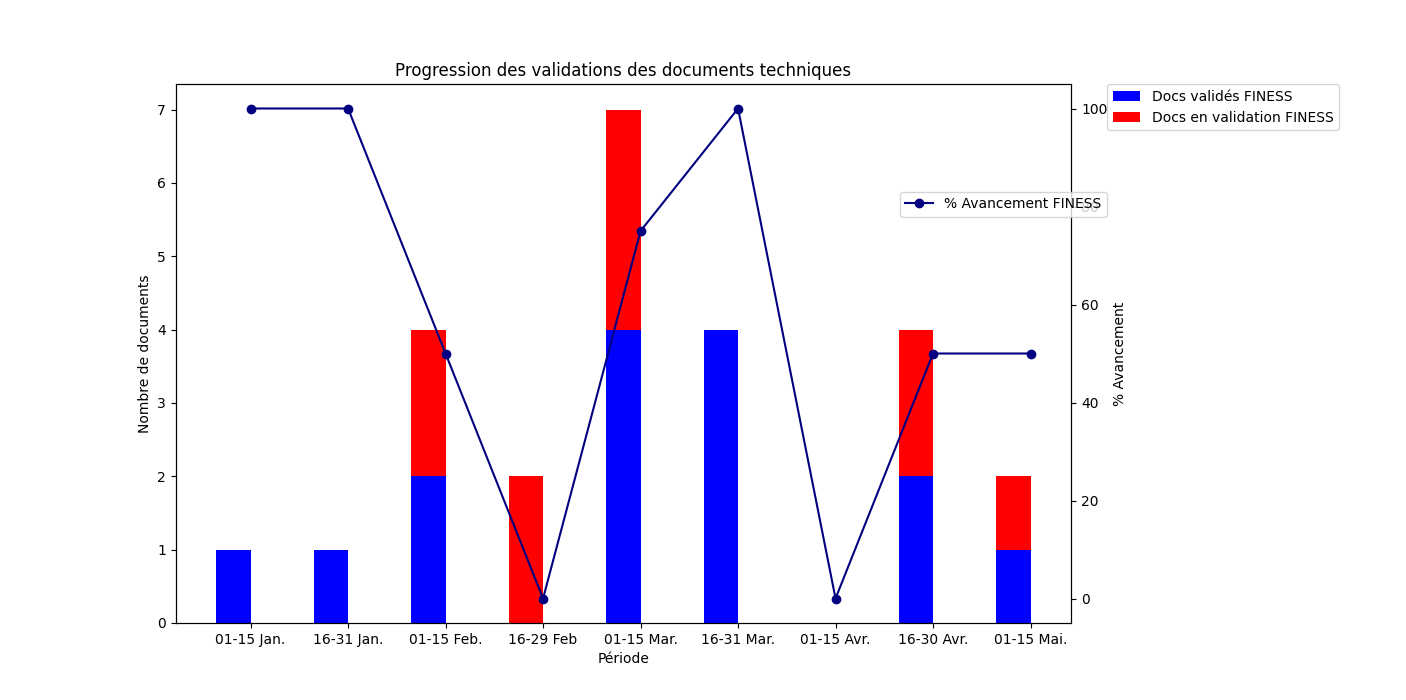
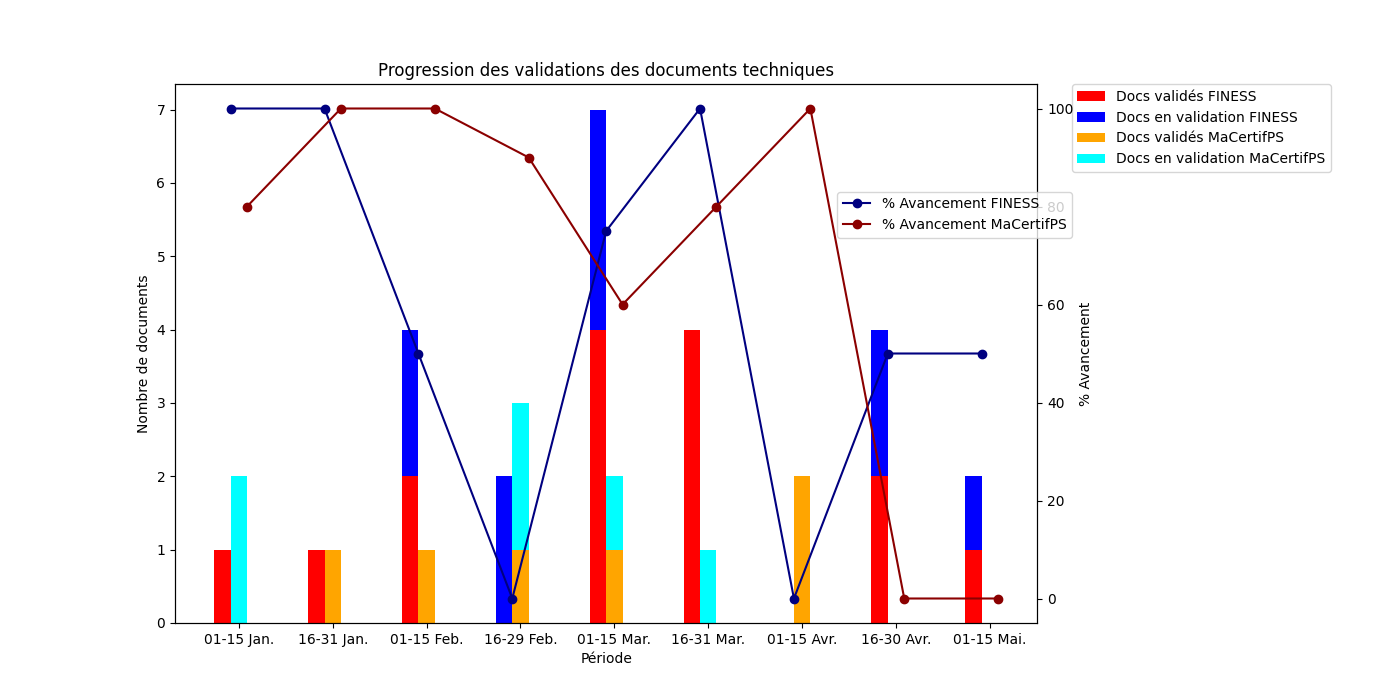
mejoras en los colores

diff --git a/documents-rediges.py b/documents-rediges.py
@@ -9,28 +9,34 @@ data = pd.read_csv('documents-rediges.csv')
 data.sort_values(by=['Periodo_Orden', 'Projet'], inplace=True)
 
 # Configuración de colores para el gráfico
-colors_bar = ['b', 'r', 'g', 'c', 'm', 'y', 'k']  # Colores para las barras de documentos rédigés
-colors_line = ['navy', 'darkred', 'darkgreen', 'darkcyan', 'purple', 'goldenrod', 'black']  # Colores para las líneas del % avancement
+warm_colors = ['red', 'orange', 'yellow', 'darkred', 'coral', 'gold', 'darkorange']  # Colores cálidos para documentos redactados
+cool_colors = ['blue', 'cyan', 'purple', 'darkblue', 'deepskyblue', 'darkviolet', 'steelblue']  # Colores fríos para documentos en redacción
+line_colors = ['navy', 'darkred', 'darkgreen', 'darkcyan', 'purple', 'goldenrod', 'black']  # Colores para las líneas de avance
 
 # Crear el gráfico
 fig, ax1 = plt.subplots(figsize=(14, 7))
 bar_width = 0.35 / len(data['Projet'].unique())
 index = np.arange(len(data['Periodo_Texto'].unique()))
+periods = data['Periodo_Texto'].unique()
 
 # Dibujar barras y líneas para cada proyecto
 for i, projet in enumerate(data['Projet'].unique()):
     subset = data[data['Projet'] == projet]
     
-    # Dibujar las barras de documentos rédigés
-    ax1.bar(index + i * bar_width, subset['Documents rédigés'], bar_width, label=f'Docs rédigés {projet}', color=colors_bar[i % len(colors_bar)])
-    ax1.bar(index + i * bar_width, subset['Documents en rédaction'], bar_width, bottom=subset['Documents rédigés'], label=f'Docs en rédaction {projet}', color=colors_bar[(i + 1) % len(colors_bar)])
+    # Asegurar que todos los periodos estén representados en el subconjunto
+    subset = subset.set_index('Periodo_Texto').reindex(periods).reset_index()
+    subset.fillna(0, inplace=True)
+    
+    # Dibujar las barras de documentos redactados
+    ax1.bar(index + i * bar_width, subset['Documents rédigés'], bar_width, label=f'Docs rédigés {projet}', color=warm_colors[i % len(warm_colors)])
+    ax1.bar(index + i * bar_width, subset['Documents en rédaction'], bar_width, bottom=subset['Documents rédigés'], label=f'Docs en rédaction {projet}', color=cool_colors[i % len(cool_colors)])
 
 # Ajustar las etiquetas y las leyendas de las barras
 ax1.set_xlabel('Période')
 ax1.set_ylabel('Nombre de documents')
 ax1.set_title('Progression des rédactions des documents techniques')
 ax1.set_xticks(index + bar_width * len(data['Projet'].unique()) / 2)
-ax1.set_xticklabels(data['Periodo_Texto'].unique())
+ax1.set_xticklabels(periods)
 ax1.legend(loc='upper left', bbox_to_anchor=(1.04, 1), borderaxespad=0)
 
 # Añadir y configurar el eje para el porcentaje de avance
@@ -40,7 +46,12 @@ ax2.set_ylabel('% Avancement de rédaction')
 # Dibujar las líneas para el porcentaje de avance
 for i, projet in enumerate(data['Projet'].unique()):
     subset = data[data['Projet'] == projet]
-    ax2.plot(index + i * bar_width + bar_width / 2, subset['% Avancement rédaction'], 'o-', color=colors_line[i % len(colors_line)], label=f'% Avancement rédaction {projet}')
+    
+    # Asegurar que todos los periodos estén representados en el subconjunto
+    subset = subset.set_index('Periodo_Texto').reindex(periods).reset_index()
+    subset.fillna(0, inplace=True)
+    
+    ax2.plot(index + i * bar_width + bar_width / 2, subset['% Avancement rédaction'], 'o-', color=line_colors[i % len(line_colors)], label=f'% Avancement rédaction {projet}')
 
 # Ajustar las leyendas de las líneas
 ax2.legend(loc='upper right', bbox_to_anchor=(1.04, 0.8), borderaxespad=0)

diff --git a/validation-documentations-techniques.py b/validation-documentations-techniques.py
@@ -9,8 +9,9 @@ data = pd.read_csv('validation-documentations-techniques.csv')
 data.sort_values(by=['Periodo_Orden', 'Projet'], inplace=True)
 
 # Configuración de colores para el gráfico
-colors_bar = ['b', 'r', 'g', 'c', 'm', 'y', 'k']  # Colores para las barras
-colors_line = ['navy', 'darkred', 'darkgreen', 'darkcyan', 'purple', 'goldenrod', 'black']  # Colores para las líneas
+warm_colors = ['red', 'orange', 'yellow', 'darkred', 'coral', 'gold', 'darkorange']  # Colores cálidos para documentos validados
+cool_colors = ['blue', 'cyan', 'purple', 'darkblue', 'deepskyblue', 'darkviolet', 'steelblue']  # Colores fríos para documentos en validación
+line_colors = ['navy', 'darkred', 'darkgreen', 'darkcyan', 'purple', 'goldenrod', 'black']  # Colores para las líneas de avance
 
 # Crear el gráfico
 fig, ax1 = plt.subplots(figsize=(14, 7))
@@ -22,8 +23,8 @@ for i, projet in enumerate(data['Projet'].unique()):
     subset = data[data['Projet'] == projet]
     
     # Dibujar las barras
-    ax1.bar(index + i * bar_width, subset['Documents validés'], bar_width, label=f'Docs validés {projet}', color=colors_bar[i % len(colors_bar)])
-    ax1.bar(index + i * bar_width, subset['Documents en validation'], bar_width, bottom=subset['Documents validés'], label=f'Docs en validation {projet}', color=colors_bar[(i + 1) % len(colors_bar)])
+    ax1.bar(index + i * bar_width, subset['Documents validés'], bar_width, label=f'Docs validés {projet}', color=warm_colors[i % len(warm_colors)])
+    ax1.bar(index + i * bar_width, subset['Documents en validation'], bar_width, bottom=subset['Documents validés'], label=f'Docs en validation {projet}', color=cool_colors[i % len(cool_colors)])
 
 # Ajustar las etiquetas y las leyendas de las barras
 ax1.set_xlabel('Période')
@@ -40,7 +41,7 @@ ax2.set_ylabel('% Avancement')
 # Dibujar las líneas para el porcentaje de avance
 for i, projet in enumerate(data['Projet'].unique()):
     subset = data[data['Projet'] == projet]
-    ax2.plot(index + i * bar_width + bar_width / 2, subset['% Avancement'], 'o-', color=colors_line[i % len(colors_line)], label=f'% Avancement {projet}')
+    ax2.plot(index + i * bar_width + bar_width / 2, subset['% Avancement'], 'o-', color=line_colors[i % len(line_colors)], label=f'% Avancement {projet}')
 
 # Ajustar las leyendas de las líneas
 ax2.legend(loc='upper right', bbox_to_anchor=(1.04, 0.8), borderaxespad=0)
